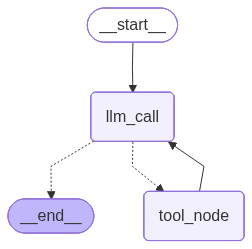
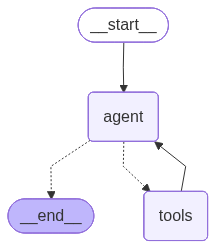
feat(ai-agent): 添加LangGraph智能体工作流实现
- 新增langgraph_03.py文件，实现完整的AI智能体工作流
- 集成多种工具包括bash命令、文件读写、编辑和任务管理功能
- 实现基于状态机的AgentState管理和消息传递机制
- 添加工具执行节点和条件分支逻辑处理
- 创建子智能体实现上下文隔离的编程助手功能
- 更新ai_tool_use_only.py移除配置参数并简化流处理
- 修改my_tool_use_only.py集成完整的智能体工作流功能

diff --git a/learn_code/04_subagent.py b/learn_code/04_subagent.py
@@ -1,0 +1,189 @@
+#!/usr/bin/env python3
+# Harness: context isolation -- protecting the model's clarity of thought.
+"""
+s04_subagent.py - Subagents
+Spawn a child agent with fresh messages=[]. The child works in its own
+context, sharing the filesystem, then returns only a summary to the parent.
+    Parent agent                     Subagent
+    +------------------+             +------------------+
+    | messages=[...]   |             | messages=[]      |  <-- fresh
+    |                  |  dispatch   |                  |
+    | tool: task       | ---------->| while tool_use:  |
+    |   prompt="..."   |            |   call tools     |
+    |   description="" |            |   append results |
+    |                  |  summary   |                  |
+    |   result = "..." | <--------- | return last text |
+    +------------------+             +------------------+
+              |
+    Parent context stays clean.
+    Subagent context is discarded.
+Key insight: "Process isolation gives context isolation for free."
+"""
+import os
+import subprocess
+from pathlib import Path
+from anthropic import Anthropic
+from dotenv import load_dotenv
+
+load_dotenv(override=True)
+if os.getenv("ANTHROPIC_BASE_URL"):
+    os.environ.pop("ANTHROPIC_AUTH_TOKEN", None)
+WORKDIR = Path.cwd()
+client = Anthropic(base_url=os.getenv("ANTHROPIC_BASE_URL"))
+MODEL = os.environ["MODEL_ID"]
+SYSTEM = f"You are a coding agent at {WORKDIR}. Use the task tool to delegate exploration or subtasks."
+SUBAGENT_SYSTEM = f"You are a coding subagent at {WORKDIR}. Complete the given task, then summarize your findings."
+
+
+# -- Tool implementations shared by parent and child --
+def safe_path(p: str) -> Path:
+    path = (WORKDIR / p).resolve()
+    if not path.is_relative_to(WORKDIR):
+        raise ValueError(f"Path escapes workspace: {p}")
+    return path
+
+
+def run_bash(command: str) -> str:
+    dangerous = ["rm -rf /", "sudo", "shutdown", "reboot", "> /dev/"]
+    if any(d in command for d in dangerous):
+        return "Error: Dangerous command blocked"
+    try:
+        r = subprocess.run(command, shell=True, cwd=WORKDIR,
+                           capture_output=True, text=True, timeout=120)
+        out = (r.stdout + r.stderr).strip()
+        return out[:50000] if out else "(no output)"
+    except subprocess.TimeoutExpired:
+        return "Error: Timeout (120s)"
+    except (FileNotFoundError, OSError) as e:
+        return f"Error: {e}"
+
+
+def run_read(path: str, limit: int = None) -> str:
+    try:
+        lines = safe_path(path).read_text().splitlines()
+        if limit and limit < len(lines):
+            lines = lines[:limit] + [f"... ({len(lines) - limit} more)"]
+        return "\n".join(lines)[:50000]
+    except Exception as e:
+        return f"Error: {e}"
+
+
+def run_write(path: str, content: str) -> str:
+    try:
+        fp = safe_path(path)
+        fp.parent.mkdir(parents=True, exist_ok=True)
+        fp.write_text(content)
+        return f"Wrote {len(content)} bytes"
+    except Exception as e:
+        return f"Error: {e}"
+
+
+def run_edit(path: str, old_text: str, new_text: str) -> str:
+    try:
+        fp = safe_path(path)
+        content = fp.read_text()
+        if old_text not in content:
+            return f"Error: Text not found in {path}"
+        fp.write_text(content.replace(old_text, new_text, 1))
+        return f"Edited {path}"
+    except Exception as e:
+        return f"Error: {e}"
+
+
+TOOL_HANDLERS = {
+    "bash": lambda **kw: run_bash(kw["command"]),
+    "read_file": lambda **kw: run_read(kw["path"], kw.get("limit")),
+    "write_file": lambda **kw: run_write(kw["path"], kw["content"]),
+    "edit_file": lambda **kw: run_edit(kw["path"], kw["old_text"], kw["new_text"]),
+}
+# Child gets all base tools except task (no recursive spawning)
+CHILD_TOOLS = [
+    {"name": "bash", "description": "Run a shell command.",
+     "input_schema": {"type": "object", "properties": {"command": {"type": "string"}}, "required": ["command"]}},
+    {"name": "read_file", "description": "Read file contents.",
+     "input_schema": {"type": "object", "properties": {"path": {"type": "string"}, "limit": {"type": "integer"}},
+                      "required": ["path"]}},
+    {"name": "write_file", "description": "Write content to file.",
+     "input_schema": {"type": "object", "properties": {"path": {"type": "string"}, "content": {"type": "string"}},
+                      "required": ["path", "content"]}},
+    {"name": "edit_file", "description": "Replace exact text in file.",
+     "input_schema": {"type": "object", "properties": {"path": {"type": "string"}, "old_text": {"type": "string"},
+                                                       "new_text": {"type": "string"}},
+                      "required": ["path", "old_text", "new_text"]}},
+]
+
+
+# -- Subagent: fresh context, filtered tools, summary-only return --
+def run_subagent(prompt: str) -> str:
+    sub_messages = [{"role": "user", "content": prompt}]  # fresh context
+    for _ in range(30):  # safety limit
+        response = client.messages.create(
+            model=MODEL, system=SUBAGENT_SYSTEM, messages=sub_messages,
+            tools=CHILD_TOOLS, max_tokens=8000,
+        )
+        sub_messages.append({"role": "assistant", "content": response.content})
+        if response.stop_reason != "tool_use":
+            break
+        results = []
+        for block in response.content:
+            if block.type == "tool_use":
+                handler = TOOL_HANDLERS.get(block.name)
+                output = handler(**block.input) if handler else f"Unknown tool: {block.name}"
+                results.append({"type": "tool_result", "tool_use_id": block.id, "content": str(output)[:50000]})
+        sub_messages.append({"role": "user", "content": results})
+    # Only the final text returns to the parent -- child context is discarded
+    return "".join(b.text for b in response.content if hasattr(b, "text")) or "(no summary)"
+
+
+# -- Parent tools: base tools + task dispatcher --
+PARENT_TOOLS = CHILD_TOOLS + [
+    {"name": "task",
+     "description": "Spawn a subagent with fresh context. It shares the filesystem but not conversation history.",
+     "input_schema": {"type": "object", "properties": {"prompt": {"type": "string"}, "description": {"type": "string",
+                                                                                                     "description": "Short description of the task"}},
+                      "required": ["prompt"]}},
+]
+
+
+def agent_loop(messages: list):
+    while True:
+        response = client.messages.create(
+            model=MODEL, system=SYSTEM, messages=messages,
+            tools=PARENT_TOOLS, max_tokens=8000,
+        )
+        messages.append({"role": "assistant", "content": response.content})
+        if response.stop_reason != "tool_use":
+            return
+        results = []
+        for block in response.content:
+            if block.type == "tool_use":
+                if block.name == "task":
+                    desc = block.input.get("description", "subtask")
+                    prompt = block.input.get("prompt", "")
+                    print(f"> task ({desc}): {prompt[:80]}")
+                    output = run_subagent(prompt)
+                else:
+                    handler = TOOL_HANDLERS.get(block.name)
+                    output = handler(**block.input) if handler else f"Unknown tool: {block.name}"
+                print(f"  {str(output)[:200]}")
+                results.append({"type": "tool_result", "tool_use_id": block.id, "content": str(output)})
+        messages.append({"role": "user", "content": results})
+
+
+if __name__ == "__main__":
+    history = []
+    while True:
+        try:
+            query = input("\033[36ms04 >> \033[0m")
+        except (EOFError, KeyboardInterrupt):
+            break
+        if query.strip().lower() in ("q", "exit", ""):
+            break
+        history.append({"role": "user", "content": query})
+        agent_loop(history)
+        response_content = history[-1]["content"]
+        if isinstance(response_content, list):
+            for block in response_content:
+                if hasattr(block, "text"):
+                    print(block.text)
+        print()

diff --git a/learn_code/ai_tool_use_only.py b/learn_code/ai_tool_use_only.py
@@ -194,10 +194,9 @@ if __name__ == "__main__":
     # 模拟一个需求
     # query = input("\033[36m请输入需求: \033[0m")
     query = "把 inplace_quick_sort.py里改为原地的快速排序算法"
-    config = {"configurable": {"thread_id": "session_v5"}}
     inputs = {"messages": [HumanMessage(content=query)], "current_todo": []}
 
-    for chunk in app.stream(inputs, config=config, stream_mode="updates"):
+    for chunk in app.stream(inputs, stream_mode="updates", version="v2"):
         for node_name, state_update in chunk.items():
             if isinstance(state_update, dict):
                 for msg in state_update.get("messages", []):
